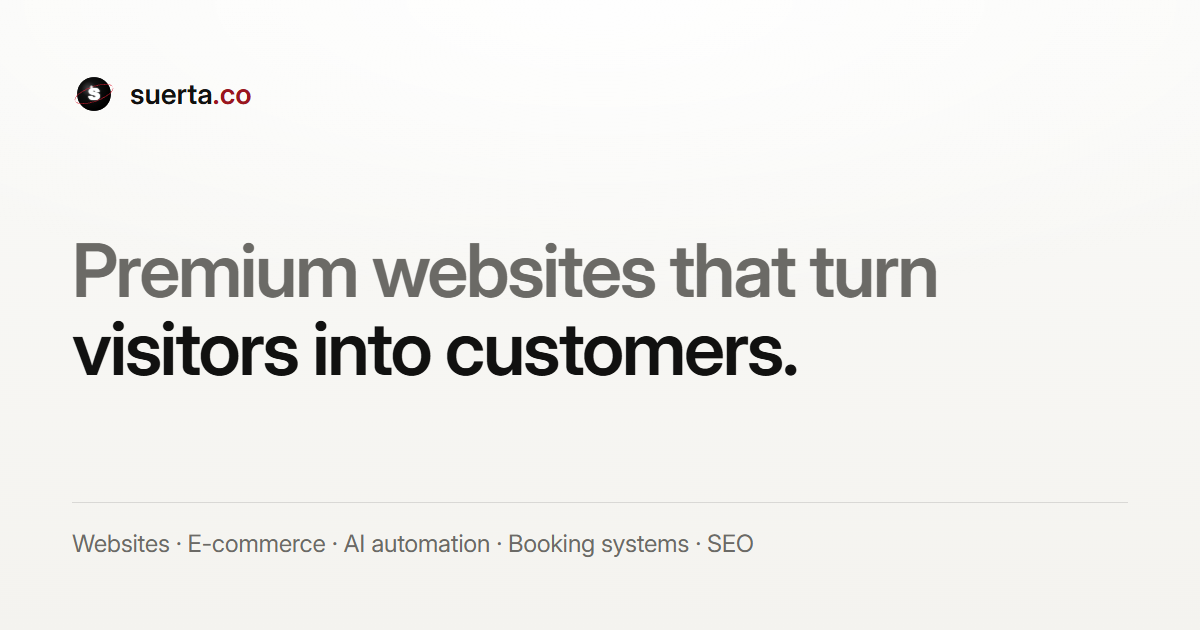
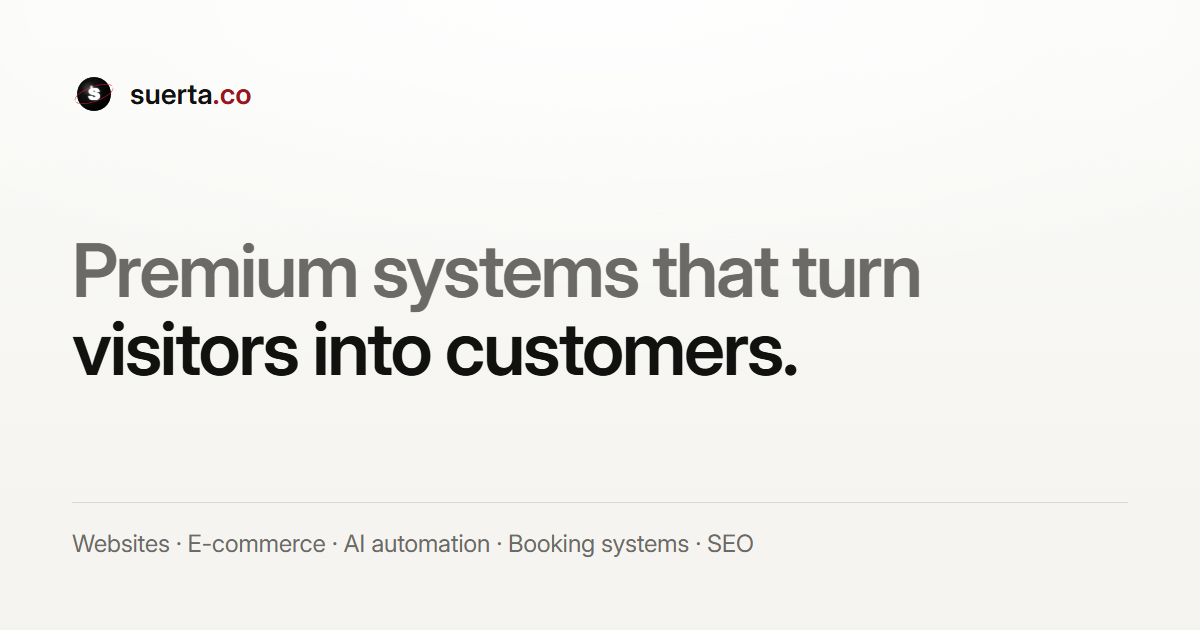
chore: og cards say "premium sistemler", per-post og:image from cover, llms.txt brand as suerta.co, drop unused team data

Changed region(s): [[0.3083, 0.3921, 0.8017, 0.5127]]

diff --git a/src/v2/pages/AboutPage.jsx b/src/v2/pages/AboutPage.jsx
@@ -10,8 +10,8 @@ import Seo, { breadcrumb } from '../seo/Seo';
 
 /* Hakkimizda.
    Anasayfadaki manifesto tek cumle soyluyor; burada o cumlenin ardindaki
-   calisma bicimi ve ekip duruyor. Ekip verisi tek kaynaktan (data/team.js)
-   geliyor, rol aciklamalari dil dosyasindan. */
+   calisma bicimi ve masanin basindaki yedi gorev duruyor (CrewTable);
+   gorev metinleri dil dosyasindan geliyor. */
 export default function AboutPage() {
   const c = useCopy();
   const { lang } = useLang();

diff --git a/src/v2/pages/BlogDetailPage.jsx b/src/v2/pages/BlogDetailPage.jsx
@@ -32,6 +32,7 @@ export default function BlogDetailPage() {
       <Seo
         title={post.title}
         description={post.desc}
+        image={coverFor(post.id).src}
         type="article"
         jsonLd={[
           articleSchema(post, url, lang),
